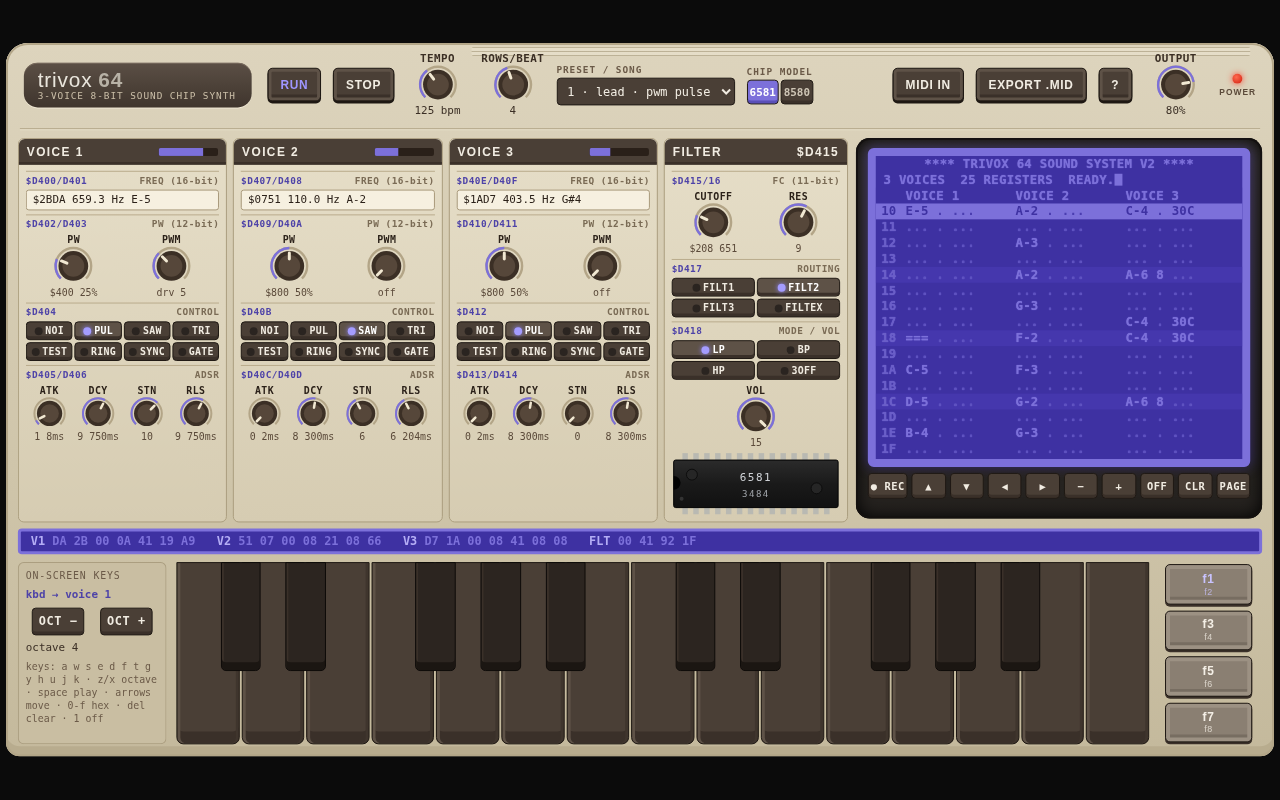
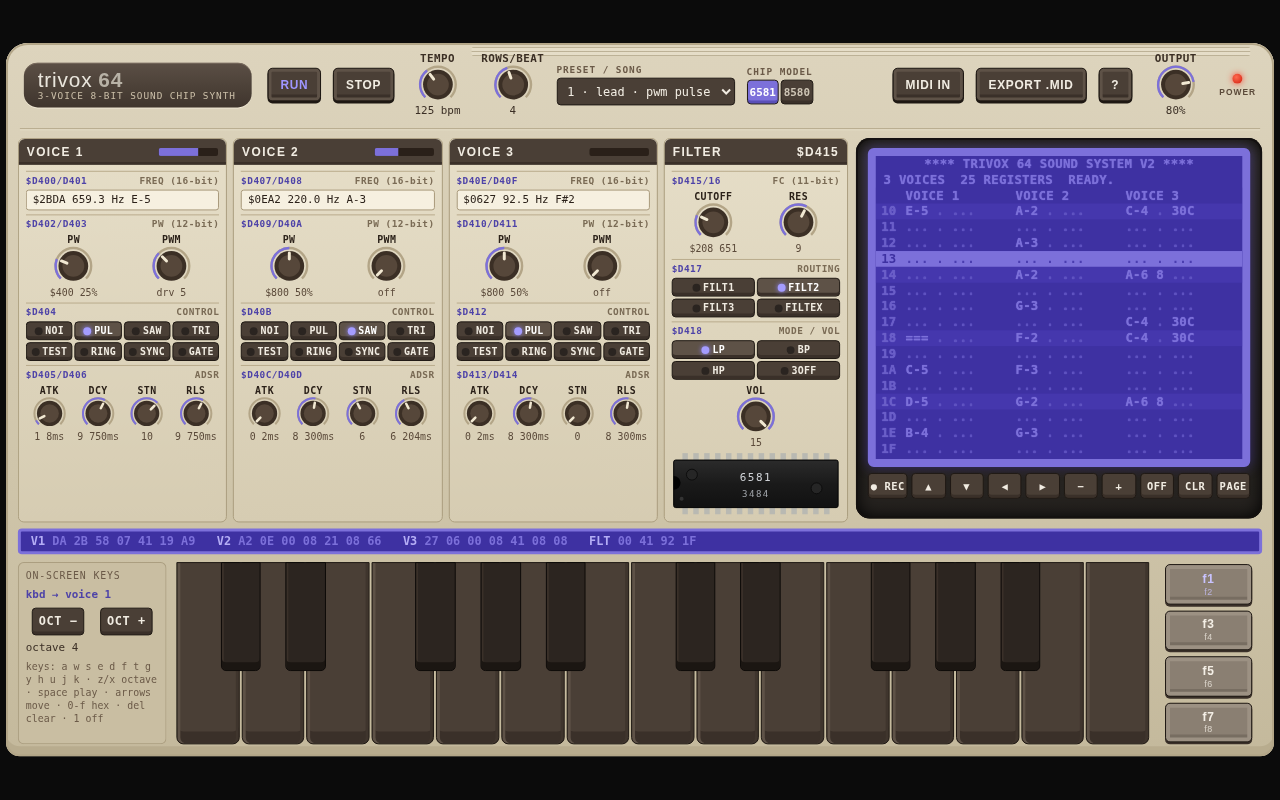
note protocol: my 8 synths accept notes from orbs via postMessage

Changed region(s): [[0.6875, 0.3125, 0.9688, 0.3438], [0.6875, 0.25, 0.9688, 0.2812], [0.4062, 0.2188, 0.4375, 0.25]]

diff --git a/fair-cmi/index.html b/fair-cmi/index.html
@@ -474,5 +474,42 @@ PRE.forEach(([r,l])=>mkReg(r,l)); regs[1].p.attack=30; regs[1].p.damp=60; regs[2
 try{ const s=JSON.parse(localStorage.getItem(LS)); if(s&&s.seq){ Object.assign(SEQ,s.seq); clk.bpm=SEQ.tempo; } if(s&&s.regs&&s.regs.length===8) s.regs.forEach((o,i)=>{ const R=regs[i]; if(o.src==='lib'){ Object.assign(R,{name:SMP.LIB[o.lib][0],key:SMP.LIB[o.lib][1],lib:o.lib,src:'lib',rate:o.rate,bits:o.bits}); } else if(o.raw){ Object.assign(R,{name:o.name,src:'draw',raw:new Float32Array(o.raw),rate:o.rate,bits:o.bits,ls0:o.ls0,le0:o.le0}); }
   Object.assign(R.p,o.p); R.kbd=o.kbd; R.trans=o.trans; R.loopSet=true; renderReg(i); }); }catch(e){ console.warn(e); }
 VS.fit(panel,W,H); go('R');
+/* vsynths note protocol v1 · receiver (shared, paste once per synth, then call VSN.use({...}) with the synth's own note functions)
+   messages in : {type:'vsynths:hello'}                                   -> answers {type:'vsynths:ready', proto:1, slug, notes:true}
+                 {type:'vsynths:note', note, vel, on, dur, delay, at, src}  note: midi 0-127 or [notes]; vel 0-1 (or 1-127); on: true|false (default true)
+                                                                            dur: s (on + auto off); delay: s from now, or at: epoch ms (performance.timeOrigin+performance.now())
+                 {type:'vsynths:notes', list:[...note msgs]}               batch
+                 {type:'vsynths:panic'} / {type:'vsynths:stop'}            release every note this protocol holds (the synth's own stop handler still runs for :stop)
+   messages out: {type:'vsynths:ready', ...} once VSN.use() runs and on every hello; {type:'vsynths:ack', on, off} on {type:'vsynths:stats'} */
+(function (W) {
+  if (W.VSN) return;
+  const A = { on: null, off: null, panic: null, slug: '' }, live = new Map(), timers = new Set(), st = { on: 0, off: 0, msgs: 0 };
+  const slugOf = () => A.slug || (location.pathname.split('/').filter(s => s && !/\.html?$/.test(s)).pop() || document.title || 'synth').toLowerCase();
+  const nowMs = () => (performance.timeOrigin || 0) + performance.now();
+  const ready = to => { const m = { type: 'vsynths:ready', proto: 1, slug: slugOf(), notes: !!A.on }; try { (to || (W.parent !== W ? W.parent : null)) && (to || W.parent).postMessage(m, '*'); } catch (e) {} };
+  const later = (ms, f) => { if (ms <= 2) return f(); const id = setTimeout(() => { timers.delete(id); f(); }, ms); timers.add(id); };
+  const v01 = v => { v = +v; if (!isFinite(v)) return 0.8; if (v > 1) v /= 127; return Math.max(0.01, Math.min(1, v)); };
+  function on(n, v) { const c = live.get(n) || 0; try { if (c) A.off(n); A.on(n, v); } catch (e) {} live.set(n, c + 1); st.on++; }
+  function off(n) { const c = live.get(n) || 0; if (!c) return; if (c > 1) { live.set(n, c - 1); return; } live.delete(n); try { A.off(n); } catch (e) {} st.off++; }
+  function releaseAll() { timers.forEach(clearTimeout); timers.clear(); for (const n of [...live.keys()]) { live.set(n, 1); off(n); } try { A.panic && A.panic(); } catch (e) {} }
+  function note(d) {
+    if (!A.on) return; const ns = Array.isArray(d.note) ? d.note : [d.note], v = v01(d.vel == null ? 0.8 : d.vel);
+    const ms = d.at != null ? d.at - nowMs() : (+d.delay || 0) * 1000; if (ms < -250) return; // stale (tab was asleep): drop instead of a burst
+    const isOn = d.on !== false, dur = +d.dur > 0 ? Math.min(+d.dur, 30) : 0;
+    for (const n0 of ns) { const n = Math.round(+n0); if (!(n >= 0 && n <= 127)) continue;
+      if (!isOn) { later(ms, () => off(n)); continue; }
+      later(ms, () => on(n, v)); if (dur) later(ms + dur * 1000, () => off(n)); }
+  }
+  W.addEventListener('message', e => { const d = e.data; if (!d || typeof d !== 'object' || typeof d.type !== 'string' || d.type.slice(0, 8) !== 'vsynths:') return;
+    st.msgs++;
+    if (d.type === 'vsynths:note') note(d);
+    else if (d.type === 'vsynths:notes' && Array.isArray(d.list)) d.list.forEach(note);
+    else if (d.type === 'vsynths:panic' || d.type === 'vsynths:stop') releaseAll();
+    else if (d.type === 'vsynths:hello') ready(e.source);
+    else if (d.type === 'vsynths:stats') { try { e.source.postMessage({ type: 'vsynths:ack', slug: slugOf(), on: st.on, off: st.off, held: live.size }, '*'); } catch (x) {} } });
+  W.VSN = { use(o) { Object.assign(A, o); ready(); return W.VSN; }, stats: () => Object.assign({ held: live.size }, st), releaseAll, proto: 1 };
+})(typeof window !== 'undefined' ? window : this);
+
+VSN.use({slug:'fair-cmi',on:(n,v)=>noteOn(n,Math.round(v*127)),off:n=>noteOff(n)}); /* vsynths note protocol */
 window.CMI={noteOn,noteOff,go,regs,SEQ,clk,seqMidi,loadLib,computeDraw,computeHarm,get cur(){return cur},set cur(v){cur=v;},drawBuf,harm,get page(){return page},hits,cv,adj,PARS};
 </script></body></html>

diff --git a/wavemass/index.html b/wavemass/index.html
@@ -722,5 +722,42 @@ function fit(){ const vw=window.visualViewport?visualViewport.width:innerWidth, 
 addEventListener('resize',fit); addEventListener('orientationchange',()=>setTimeout(fit,250)); if(window.visualViewport) visualViewport.addEventListener('resize',fit);
 (function mtr(){ if(VS.analyser){ const m=VS.measure(); meter.firstChild.style.height=Math.min(100,Math.max(0,(20*Math.log10(m.peak||1e-6)+48)/48*100))+'%'; } setTimeout(()=>requestAnimationFrame(mtr),60); })();
 fit(); fxFromFlags(); pName.textContent=P.name.toUpperCase(); refreshAll();
+/* vsynths note protocol v1 · receiver (shared, paste once per synth, then call VSN.use({...}) with the synth's own note functions)
+   messages in : {type:'vsynths:hello'}                                   -> answers {type:'vsynths:ready', proto:1, slug, notes:true}
+                 {type:'vsynths:note', note, vel, on, dur, delay, at, src}  note: midi 0-127 or [notes]; vel 0-1 (or 1-127); on: true|false (default true)
+                                                                            dur: s (on + auto off); delay: s from now, or at: epoch ms (performance.timeOrigin+performance.now())
+                 {type:'vsynths:notes', list:[...note msgs]}               batch
+                 {type:'vsynths:panic'} / {type:'vsynths:stop'}            release every note this protocol holds (the synth's own stop handler still runs for :stop)
+   messages out: {type:'vsynths:ready', ...} once VSN.use() runs and on every hello; {type:'vsynths:ack', on, off} on {type:'vsynths:stats'} */
+(function (W) {
+  if (W.VSN) return;
+  const A = { on: null, off: null, panic: null, slug: '' }, live = new Map(), timers = new Set(), st = { on: 0, off: 0, msgs: 0 };
+  const slugOf = () => A.slug || (location.pathname.split('/').filter(s => s && !/\.html?$/.test(s)).pop() || document.title || 'synth').toLowerCase();
+  const nowMs = () => (performance.timeOrigin || 0) + performance.now();
+  const ready = to => { const m = { type: 'vsynths:ready', proto: 1, slug: slugOf(), notes: !!A.on }; try { (to || (W.parent !== W ? W.parent : null)) && (to || W.parent).postMessage(m, '*'); } catch (e) {} };
+  const later = (ms, f) => { if (ms <= 2) return f(); const id = setTimeout(() => { timers.delete(id); f(); }, ms); timers.add(id); };
+  const v01 = v => { v = +v; if (!isFinite(v)) return 0.8; if (v > 1) v /= 127; return Math.max(0.01, Math.min(1, v)); };
+  function on(n, v) { const c = live.get(n) || 0; try { if (c) A.off(n); A.on(n, v); } catch (e) {} live.set(n, c + 1); st.on++; }
+  function off(n) { const c = live.get(n) || 0; if (!c) return; if (c > 1) { live.set(n, c - 1); return; } live.delete(n); try { A.off(n); } catch (e) {} st.off++; }
+  function releaseAll() { timers.forEach(clearTimeout); timers.clear(); for (const n of [...live.keys()]) { live.set(n, 1); off(n); } try { A.panic && A.panic(); } catch (e) {} }
+  function note(d) {
+    if (!A.on) return; const ns = Array.isArray(d.note) ? d.note : [d.note], v = v01(d.vel == null ? 0.8 : d.vel);
+    const ms = d.at != null ? d.at - nowMs() : (+d.delay || 0) * 1000; if (ms < -250) return; // stale (tab was asleep): drop instead of a burst
+    const isOn = d.on !== false, dur = +d.dur > 0 ? Math.min(+d.dur, 30) : 0;
+    for (const n0 of ns) { const n = Math.round(+n0); if (!(n >= 0 && n <= 127)) continue;
+      if (!isOn) { later(ms, () => off(n)); continue; }
+      later(ms, () => on(n, v)); if (dur) later(ms + dur * 1000, () => off(n)); }
+  }
+  W.addEventListener('message', e => { const d = e.data; if (!d || typeof d !== 'object' || typeof d.type !== 'string' || d.type.slice(0, 8) !== 'vsynths:') return;
+    st.msgs++;
+    if (d.type === 'vsynths:note') note(d);
+    else if (d.type === 'vsynths:notes' && Array.isArray(d.list)) d.list.forEach(note);
+    else if (d.type === 'vsynths:panic' || d.type === 'vsynths:stop') releaseAll();
+    else if (d.type === 'vsynths:hello') ready(e.source);
+    else if (d.type === 'vsynths:stats') { try { e.source.postMessage({ type: 'vsynths:ack', slug: slugOf(), on: st.on, off: st.off, held: live.size }, '*'); } catch (x) {} } });
+  W.VSN = { use(o) { Object.assign(A, o); ready(); return W.VSN; }, stats: () => Object.assign({ held: live.size }, st), releaseAll, proto: 1 };
+})(typeof window !== 'undefined' ? window : this);
+
+VSN.use({slug:'wavemass',on:(n,v)=>down(n,Math.round(v*127)),off:n=>up(n)}); /* vsynths note protocol */
 window.WM={get P(){return P},fit,set view(v){phoneView=v;fit();},noteOn,noteOff,loadPreset,SA,send:()=>{ if(eng) eng.send({t:'patch',p:P}); },arm,PRESETS,refreshAll};
 </script></body></html>

diff --git a/obx-a/index.html b/obx-a/index.html
@@ -609,6 +609,43 @@ async function renderOffline(sec=3,events=null,patchOverride=null){ const sr=441
   const buf=await oc.startRendering(); let peak=0,nan=0,ss=0; for(let c=0;c<2;c++){ const d=buf.getChannelData(c); for(let i=0;i<d.length;i++){ const x=d[i]; if(!isFinite(x)){ nan++; continue; } const a=Math.abs(x); if(a>peak) peak=a; ss+=x*x; } }
   return {peak,nan,rms:Math.sqrt(ss/(buf.length*2)),kind:e.kind}; }
 window.OBXA={S,FACTORY,Engine,progBtn,holdSwitch,chordSwitch,noteDown,noteUp,play,stop,stopAll,buildMidi,loadProg,setMode,renderOffline,get eng(){ return eng; },get ctx(){ return ctx; },get playing(){ return playing; }};
+
+/* vsynths note protocol v1 · receiver (shared, paste once per synth, then call VSN.use({...}) with the synth's own note functions)
+   messages in : {type:'vsynths:hello'}                                   -> answers {type:'vsynths:ready', proto:1, slug, notes:true}
+                 {type:'vsynths:note', note, vel, on, dur, delay, at, src}  note: midi 0-127 or [notes]; vel 0-1 (or 1-127); on: true|false (default true)
+                                                                            dur: s (on + auto off); delay: s from now, or at: epoch ms (performance.timeOrigin+performance.now())
+                 {type:'vsynths:notes', list:[...note msgs]}               batch
+                 {type:'vsynths:panic'} / {type:'vsynths:stop'}            release every note this protocol holds (the synth's own stop handler still runs for :stop)
+   messages out: {type:'vsynths:ready', ...} once VSN.use() runs and on every hello; {type:'vsynths:ack', on, off} on {type:'vsynths:stats'} */
+(function (W) {
+  if (W.VSN) return;
+  const A = { on: null, off: null, panic: null, slug: '' }, live = new Map(), timers = new Set(), st = { on: 0, off: 0, msgs: 0 };
+  const slugOf = () => A.slug || (location.pathname.split('/').filter(s => s && !/\.html?$/.test(s)).pop() || document.title || 'synth').toLowerCase();
+  const nowMs = () => (performance.timeOrigin || 0) + performance.now();
+  const ready = to => { const m = { type: 'vsynths:ready', proto: 1, slug: slugOf(), notes: !!A.on }; try { (to || (W.parent !== W ? W.parent : null)) && (to || W.parent).postMessage(m, '*'); } catch (e) {} };
+  const later = (ms, f) => { if (ms <= 2) return f(); const id = setTimeout(() => { timers.delete(id); f(); }, ms); timers.add(id); };
+  const v01 = v => { v = +v; if (!isFinite(v)) return 0.8; if (v > 1) v /= 127; return Math.max(0.01, Math.min(1, v)); };
+  function on(n, v) { const c = live.get(n) || 0; try { if (c) A.off(n); A.on(n, v); } catch (e) {} live.set(n, c + 1); st.on++; }
+  function off(n) { const c = live.get(n) || 0; if (!c) return; if (c > 1) { live.set(n, c - 1); return; } live.delete(n); try { A.off(n); } catch (e) {} st.off++; }
+  function releaseAll() { timers.forEach(clearTimeout); timers.clear(); for (const n of [...live.keys()]) { live.set(n, 1); off(n); } try { A.panic && A.panic(); } catch (e) {} }
+  function note(d) {
+    if (!A.on) return; const ns = Array.isArray(d.note) ? d.note : [d.note], v = v01(d.vel == null ? 0.8 : d.vel);
+    const ms = d.at != null ? d.at - nowMs() : (+d.delay || 0) * 1000; if (ms < -250) return; // stale (tab was asleep): drop instead of a burst
+    const isOn = d.on !== false, dur = +d.dur > 0 ? Math.min(+d.dur, 30) : 0;
+    for (const n0 of ns) { const n = Math.round(+n0); if (!(n >= 0 && n <= 127)) continue;
+      if (!isOn) { later(ms, () => off(n)); continue; }
+      later(ms, () => on(n, v)); if (dur) later(ms + dur * 1000, () => off(n)); }
+  }
+  W.addEventListener('message', e => { const d = e.data; if (!d || typeof d !== 'object' || typeof d.type !== 'string' || d.type.slice(0, 8) !== 'vsynths:') return;
+    st.msgs++;
+    if (d.type === 'vsynths:note') note(d);
+    else if (d.type === 'vsynths:notes' && Array.isArray(d.list)) d.list.forEach(note);
+    else if (d.type === 'vsynths:panic' || d.type === 'vsynths:stop') releaseAll();
+    else if (d.type === 'vsynths:hello') ready(e.source);
+    else if (d.type === 'vsynths:stats') { try { e.source.postMessage({ type: 'vsynths:ack', slug: slugOf(), on: st.on, off: st.off, held: live.size }, '*'); } catch (x) {} } });
+  W.VSN = { use(o) { Object.assign(A, o); ready(); return W.VSN; }, stats: () => Object.assign({ held: live.size }, st), releaseAll, proto: 1 };
+})(typeof window !== 'undefined' ? window : this);
+VSN.use({slug:'obx-a',on:(n,v)=>noteDown(n,v,'x'),off:n=>noteUp(n)}); /* vsynths note protocol: notes from a host page (orbs) */
 </script>
 </body>
 </html>

diff --git a/chip-sid/index.html b/chip-sid/index.html
@@ -566,6 +566,43 @@ buildKeyboard($('#kbw'),984,184,2);
   WID.push({render:()=>fks.forEach((k,i)=>k.classList.toggle('on',S.preset===i||(i===3&&S.preset===4)))}); }
 KB.onOn=(m,src)=>{ ensureAudio(); const c=CUR.c; noteOn(c,m,{},0); KB.lastCh=c; if(REC&&FIELDS[CUR.f]==='n') enterNote(m); };
 KB.onOff=(m,src)=>{ if(KB.held.size===0) noteOff(KB.lastCh??CUR.c,0); else { const ns=[...KB.held.values()]; noteOn(KB.lastCh??CUR.c,ns[ns.length-1],{},0); } };
+/* vsynths note protocol v1 · receiver (shared, paste once per synth, then call VSN.use({...}) with the synth's own note functions)
+   messages in : {type:'vsynths:hello'}                                   -> answers {type:'vsynths:ready', proto:1, slug, notes:true}
+                 {type:'vsynths:note', note, vel, on, dur, delay, at, src}  note: midi 0-127 or [notes]; vel 0-1 (or 1-127); on: true|false (default true)
+                                                                            dur: s (on + auto off); delay: s from now, or at: epoch ms (performance.timeOrigin+performance.now())
+                 {type:'vsynths:notes', list:[...note msgs]}               batch
+                 {type:'vsynths:panic'} / {type:'vsynths:stop'}            release every note this protocol holds (the synth's own stop handler still runs for :stop)
+   messages out: {type:'vsynths:ready', ...} once VSN.use() runs and on every hello; {type:'vsynths:ack', on, off} on {type:'vsynths:stats'} */
+(function (W) {
+  if (W.VSN) return;
+  const A = { on: null, off: null, panic: null, slug: '' }, live = new Map(), timers = new Set(), st = { on: 0, off: 0, msgs: 0 };
+  const slugOf = () => A.slug || (location.pathname.split('/').filter(s => s && !/\.html?$/.test(s)).pop() || document.title || 'synth').toLowerCase();
+  const nowMs = () => (performance.timeOrigin || 0) + performance.now();
+  const ready = to => { const m = { type: 'vsynths:ready', proto: 1, slug: slugOf(), notes: !!A.on }; try { (to || (W.parent !== W ? W.parent : null)) && (to || W.parent).postMessage(m, '*'); } catch (e) {} };
+  const later = (ms, f) => { if (ms <= 2) return f(); const id = setTimeout(() => { timers.delete(id); f(); }, ms); timers.add(id); };
+  const v01 = v => { v = +v; if (!isFinite(v)) return 0.8; if (v > 1) v /= 127; return Math.max(0.01, Math.min(1, v)); };
+  function on(n, v) { const c = live.get(n) || 0; try { if (c) A.off(n); A.on(n, v); } catch (e) {} live.set(n, c + 1); st.on++; }
+  function off(n) { const c = live.get(n) || 0; if (!c) return; if (c > 1) { live.set(n, c - 1); return; } live.delete(n); try { A.off(n); } catch (e) {} st.off++; }
+  function releaseAll() { timers.forEach(clearTimeout); timers.clear(); for (const n of [...live.keys()]) { live.set(n, 1); off(n); } try { A.panic && A.panic(); } catch (e) {} }
+  function note(d) {
+    if (!A.on) return; const ns = Array.isArray(d.note) ? d.note : [d.note], v = v01(d.vel == null ? 0.8 : d.vel);
+    const ms = d.at != null ? d.at - nowMs() : (+d.delay || 0) * 1000; if (ms < -250) return; // stale (tab was asleep): drop instead of a burst
+    const isOn = d.on !== false, dur = +d.dur > 0 ? Math.min(+d.dur, 30) : 0;
+    for (const n0 of ns) { const n = Math.round(+n0); if (!(n >= 0 && n <= 127)) continue;
+      if (!isOn) { later(ms, () => off(n)); continue; }
+      later(ms, () => on(n, v)); if (dur) later(ms + dur * 1000, () => off(n)); }
+  }
+  W.addEventListener('message', e => { const d = e.data; if (!d || typeof d !== 'object' || typeof d.type !== 'string' || d.type.slice(0, 8) !== 'vsynths:') return;
+    st.msgs++;
+    if (d.type === 'vsynths:note') note(d);
+    else if (d.type === 'vsynths:notes' && Array.isArray(d.list)) d.list.forEach(note);
+    else if (d.type === 'vsynths:panic' || d.type === 'vsynths:stop') releaseAll();
+    else if (d.type === 'vsynths:hello') ready(e.source);
+    else if (d.type === 'vsynths:stats') { try { e.source.postMessage({ type: 'vsynths:ack', slug: slugOf(), on: st.on, off: st.off, held: live.size }, '*'); } catch (x) {} } });
+  W.VSN = { use(o) { Object.assign(A, o); ready(); return W.VSN; }, stats: () => Object.assign({ held: live.size }, st), releaseAll, proto: 1 };
+})(typeof window !== 'undefined' ? window : this);
+
+VSN.use({slug:'chip-sid',on:(n,v)=>kbOn(n,'vsn'+n),off:n=>kbOff('vsn'+n),panic:()=>{}}); /* vsynths note protocol: host notes play like the on-screen keys (current channel) */
 
 /* ================= keys ================= */
 document.addEventListener('keydown',e=>{

diff --git a/fm7/index.html b/fm7/index.html
@@ -608,5 +608,42 @@ function buildMidi(){ const PPQ=96, st=24, notes=[]; let name='fm7_seq';
 function exportMidi(){ const b=buildMidi(); VS.download(b,(arp.mode!=='off'&&arp.mode!=='seq'&&held.size?'fm7_arp_':'fm7_seq_')+tempo+'bpm.mid'); msg('MIDI EXPORT','4 BARS SAVED'); }
 /* ---------------- boot ---------------- */
 VS.fit(panel,W,H); drawArp(); drawSteps(); show();
+/* vsynths note protocol v1 · receiver (shared, paste once per synth, then call VSN.use({...}) with the synth's own note functions)
+   messages in : {type:'vsynths:hello'}                                   -> answers {type:'vsynths:ready', proto:1, slug, notes:true}
+                 {type:'vsynths:note', note, vel, on, dur, delay, at, src}  note: midi 0-127 or [notes]; vel 0-1 (or 1-127); on: true|false (default true)
+                                                                            dur: s (on + auto off); delay: s from now, or at: epoch ms (performance.timeOrigin+performance.now())
+                 {type:'vsynths:notes', list:[...note msgs]}               batch
+                 {type:'vsynths:panic'} / {type:'vsynths:stop'}            release every note this protocol holds (the synth's own stop handler still runs for :stop)
+   messages out: {type:'vsynths:ready', ...} once VSN.use() runs and on every hello; {type:'vsynths:ack', on, off} on {type:'vsynths:stats'} */
+(function (W) {
+  if (W.VSN) return;
+  const A = { on: null, off: null, panic: null, slug: '' }, live = new Map(), timers = new Set(), st = { on: 0, off: 0, msgs: 0 };
+  const slugOf = () => A.slug || (location.pathname.split('/').filter(s => s && !/\.html?$/.test(s)).pop() || document.title || 'synth').toLowerCase();
+  const nowMs = () => (performance.timeOrigin || 0) + performance.now();
+  const ready = to => { const m = { type: 'vsynths:ready', proto: 1, slug: slugOf(), notes: !!A.on }; try { (to || (W.parent !== W ? W.parent : null)) && (to || W.parent).postMessage(m, '*'); } catch (e) {} };
+  const later = (ms, f) => { if (ms <= 2) return f(); const id = setTimeout(() => { timers.delete(id); f(); }, ms); timers.add(id); };
+  const v01 = v => { v = +v; if (!isFinite(v)) return 0.8; if (v > 1) v /= 127; return Math.max(0.01, Math.min(1, v)); };
+  function on(n, v) { const c = live.get(n) || 0; try { if (c) A.off(n); A.on(n, v); } catch (e) {} live.set(n, c + 1); st.on++; }
+  function off(n) { const c = live.get(n) || 0; if (!c) return; if (c > 1) { live.set(n, c - 1); return; } live.delete(n); try { A.off(n); } catch (e) {} st.off++; }
+  function releaseAll() { timers.forEach(clearTimeout); timers.clear(); for (const n of [...live.keys()]) { live.set(n, 1); off(n); } try { A.panic && A.panic(); } catch (e) {} }
+  function note(d) {
+    if (!A.on) return; const ns = Array.isArray(d.note) ? d.note : [d.note], v = v01(d.vel == null ? 0.8 : d.vel);
+    const ms = d.at != null ? d.at - nowMs() : (+d.delay || 0) * 1000; if (ms < -250) return; // stale (tab was asleep): drop instead of a burst
+    const isOn = d.on !== false, dur = +d.dur > 0 ? Math.min(+d.dur, 30) : 0;
+    for (const n0 of ns) { const n = Math.round(+n0); if (!(n >= 0 && n <= 127)) continue;
+      if (!isOn) { later(ms, () => off(n)); continue; }
+      later(ms, () => on(n, v)); if (dur) later(ms + dur * 1000, () => off(n)); }
+  }
+  W.addEventListener('message', e => { const d = e.data; if (!d || typeof d !== 'object' || typeof d.type !== 'string' || d.type.slice(0, 8) !== 'vsynths:') return;
+    st.msgs++;
+    if (d.type === 'vsynths:note') note(d);
+    else if (d.type === 'vsynths:notes' && Array.isArray(d.list)) d.list.forEach(note);
+    else if (d.type === 'vsynths:panic' || d.type === 'vsynths:stop') releaseAll();
+    else if (d.type === 'vsynths:hello') ready(e.source);
+    else if (d.type === 'vsynths:stats') { try { e.source.postMessage({ type: 'vsynths:ack', slug: slugOf(), on: st.on, off: st.off, held: live.size }, '*'); } catch (x) {} } });
+  W.VSN = { use(o) { Object.assign(A, o); ready(); return W.VSN; }, stats: () => Object.assign({ held: live.size }, st), releaseAll, proto: 1 };
+})(typeof window !== 'undefined' ? window : this);
+
+VSN.use({slug:'fm7',on:(n,v)=>{lastNote=n;playDown(n,Math.round(v*127));},off:n=>playUp(n)}); /* vsynths note protocol: notes from a host page (orbs) */
 window.FM7={get P(){return P},noteOn,noteOff,press32,setMode,inc,clk,setArp,held,buildMidi,seq,get mode(){return mode},lcd:()=>lcd.textContent,ALG,PRESETS};
 </script></body></html>

diff --git a/pd-cz/index.html b/pd-cz/index.html
@@ -520,5 +520,42 @@ function show(){ clearTimeout(ft); let l1,l2;
   PL.forEach((l,i)=>l&&on(l,mode==='edit'&&prm===i)); [0,1,3,2].forEach((k,i)=>on(LSL[i],P.lineSel===k)); bLine.classList.add('lit');
   if(!power) lcd.textContent=''; }
 VS.fit(panel,W,H); show();
+/* vsynths note protocol v1 · receiver (shared, paste once per synth, then call VSN.use({...}) with the synth's own note functions)
+   messages in : {type:'vsynths:hello'}                                   -> answers {type:'vsynths:ready', proto:1, slug, notes:true}
+                 {type:'vsynths:note', note, vel, on, dur, delay, at, src}  note: midi 0-127 or [notes]; vel 0-1 (or 1-127); on: true|false (default true)
+                                                                            dur: s (on + auto off); delay: s from now, or at: epoch ms (performance.timeOrigin+performance.now())
+                 {type:'vsynths:notes', list:[...note msgs]}               batch
+                 {type:'vsynths:panic'} / {type:'vsynths:stop'}            release every note this protocol holds (the synth's own stop handler still runs for :stop)
+   messages out: {type:'vsynths:ready', ...} once VSN.use() runs and on every hello; {type:'vsynths:ack', on, off} on {type:'vsynths:stats'} */
+(function (W) {
+  if (W.VSN) return;
+  const A = { on: null, off: null, panic: null, slug: '' }, live = new Map(), timers = new Set(), st = { on: 0, off: 0, msgs: 0 };
+  const slugOf = () => A.slug || (location.pathname.split('/').filter(s => s && !/\.html?$/.test(s)).pop() || document.title || 'synth').toLowerCase();
+  const nowMs = () => (performance.timeOrigin || 0) + performance.now();
+  const ready = to => { const m = { type: 'vsynths:ready', proto: 1, slug: slugOf(), notes: !!A.on }; try { (to || (W.parent !== W ? W.parent : null)) && (to || W.parent).postMessage(m, '*'); } catch (e) {} };
+  const later = (ms, f) => { if (ms <= 2) return f(); const id = setTimeout(() => { timers.delete(id); f(); }, ms); timers.add(id); };
+  const v01 = v => { v = +v; if (!isFinite(v)) return 0.8; if (v > 1) v /= 127; return Math.max(0.01, Math.min(1, v)); };
+  function on(n, v) { const c = live.get(n) || 0; try { if (c) A.off(n); A.on(n, v); } catch (e) {} live.set(n, c + 1); st.on++; }
+  function off(n) { const c = live.get(n) || 0; if (!c) return; if (c > 1) { live.set(n, c - 1); return; } live.delete(n); try { A.off(n); } catch (e) {} st.off++; }
+  function releaseAll() { timers.forEach(clearTimeout); timers.clear(); for (const n of [...live.keys()]) { live.set(n, 1); off(n); } try { A.panic && A.panic(); } catch (e) {} }
+  function note(d) {
+    if (!A.on) return; const ns = Array.isArray(d.note) ? d.note : [d.note], v = v01(d.vel == null ? 0.8 : d.vel);
+    const ms = d.at != null ? d.at - nowMs() : (+d.delay || 0) * 1000; if (ms < -250) return; // stale (tab was asleep): drop instead of a burst
+    const isOn = d.on !== false, dur = +d.dur > 0 ? Math.min(+d.dur, 30) : 0;
+    for (const n0 of ns) { const n = Math.round(+n0); if (!(n >= 0 && n <= 127)) continue;
+      if (!isOn) { later(ms, () => off(n)); continue; }
+      later(ms, () => on(n, v)); if (dur) later(ms + dur * 1000, () => off(n)); }
+  }
+  W.addEventListener('message', e => { const d = e.data; if (!d || typeof d !== 'object' || typeof d.type !== 'string' || d.type.slice(0, 8) !== 'vsynths:') return;
+    st.msgs++;
+    if (d.type === 'vsynths:note') note(d);
+    else if (d.type === 'vsynths:notes' && Array.isArray(d.list)) d.list.forEach(note);
+    else if (d.type === 'vsynths:panic' || d.type === 'vsynths:stop') releaseAll();
+    else if (d.type === 'vsynths:hello') ready(e.source);
+    else if (d.type === 'vsynths:stats') { try { e.source.postMessage({ type: 'vsynths:ack', slug: slugOf(), on: st.on, off: st.off, held: live.size }, '*'); } catch (x) {} } });
+  W.VSN = { use(o) { Object.assign(A, o); ready(); return W.VSN; }, stats: () => Object.assign({ held: live.size }, st), releaseAll, proto: 1 };
+})(typeof window !== 'undefined' ? window : this);
+
+VSN.use({slug:'pd-cz',on:(n,v)=>down(n,Math.round(v*127)),off:n=>up(n)}); /* vsynths note protocol */
 window.PD={send:()=>{ if(eng) eng.send({t:'patch',p:P}); },get P(){return P},noteOn,noteOff,press16,perf,val,moveCur,envPoint,SA,get mode(){return mode},set mode(m){mode=m; if(m==='edit'&&prm<0) prm=6; show();},lcd:()=>lcd.textContent,PRESETS};
 </script></body></html>

diff --git a/chip-2a03/index.html b/chip-2a03/index.html
@@ -642,6 +642,43 @@ buildKeyboard($('#kbw'),946,188,2);
 const kbMap=m=>CUR.c===3?(15-(m%16))|(S.ch[3].mode<<4):CUR.c===4?(m%4):m;
 KB.onOn=(m,src)=>{ ensureAudio(); const c=CUR.c, n=kbMap(m); writeStatic(); noteOn(c,n,{},0); KB.lastCh=c; if(REC&&FIELDS[c][CUR.f]==='n') enterNote(n); };
 KB.onOff=(m,src)=>{ if(KB.held.size===0) noteOff(KB.lastCh??CUR.c,0); };
+/* vsynths note protocol v1 · receiver (shared, paste once per synth, then call VSN.use({...}) with the synth's own note functions)
+   messages in : {type:'vsynths:hello'}                                   -> answers {type:'vsynths:ready', proto:1, slug, notes:true}
+                 {type:'vsynths:note', note, vel, on, dur, delay, at, src}  note: midi 0-127 or [notes]; vel 0-1 (or 1-127); on: true|false (default true)
+                                                                            dur: s (on + auto off); delay: s from now, or at: epoch ms (performance.timeOrigin+performance.now())
+                 {type:'vsynths:notes', list:[...note msgs]}               batch
+                 {type:'vsynths:panic'} / {type:'vsynths:stop'}            release every note this protocol holds (the synth's own stop handler still runs for :stop)
+   messages out: {type:'vsynths:ready', ...} once VSN.use() runs and on every hello; {type:'vsynths:ack', on, off} on {type:'vsynths:stats'} */
+(function (W) {
+  if (W.VSN) return;
+  const A = { on: null, off: null, panic: null, slug: '' }, live = new Map(), timers = new Set(), st = { on: 0, off: 0, msgs: 0 };
+  const slugOf = () => A.slug || (location.pathname.split('/').filter(s => s && !/\.html?$/.test(s)).pop() || document.title || 'synth').toLowerCase();
+  const nowMs = () => (performance.timeOrigin || 0) + performance.now();
+  const ready = to => { const m = { type: 'vsynths:ready', proto: 1, slug: slugOf(), notes: !!A.on }; try { (to || (W.parent !== W ? W.parent : null)) && (to || W.parent).postMessage(m, '*'); } catch (e) {} };
+  const later = (ms, f) => { if (ms <= 2) return f(); const id = setTimeout(() => { timers.delete(id); f(); }, ms); timers.add(id); };
+  const v01 = v => { v = +v; if (!isFinite(v)) return 0.8; if (v > 1) v /= 127; return Math.max(0.01, Math.min(1, v)); };
+  function on(n, v) { const c = live.get(n) || 0; try { if (c) A.off(n); A.on(n, v); } catch (e) {} live.set(n, c + 1); st.on++; }
+  function off(n) { const c = live.get(n) || 0; if (!c) return; if (c > 1) { live.set(n, c - 1); return; } live.delete(n); try { A.off(n); } catch (e) {} st.off++; }
+  function releaseAll() { timers.forEach(clearTimeout); timers.clear(); for (const n of [...live.keys()]) { live.set(n, 1); off(n); } try { A.panic && A.panic(); } catch (e) {} }
+  function note(d) {
+    if (!A.on) return; const ns = Array.isArray(d.note) ? d.note : [d.note], v = v01(d.vel == null ? 0.8 : d.vel);
+    const ms = d.at != null ? d.at - nowMs() : (+d.delay || 0) * 1000; if (ms < -250) return; // stale (tab was asleep): drop instead of a burst
+    const isOn = d.on !== false, dur = +d.dur > 0 ? Math.min(+d.dur, 30) : 0;
+    for (const n0 of ns) { const n = Math.round(+n0); if (!(n >= 0 && n <= 127)) continue;
+      if (!isOn) { later(ms, () => off(n)); continue; }
+      later(ms, () => on(n, v)); if (dur) later(ms + dur * 1000, () => off(n)); }
+  }
+  W.addEventListener('message', e => { const d = e.data; if (!d || typeof d !== 'object' || typeof d.type !== 'string' || d.type.slice(0, 8) !== 'vsynths:') return;
+    st.msgs++;
+    if (d.type === 'vsynths:note') note(d);
+    else if (d.type === 'vsynths:notes' && Array.isArray(d.list)) d.list.forEach(note);
+    else if (d.type === 'vsynths:panic' || d.type === 'vsynths:stop') releaseAll();
+    else if (d.type === 'vsynths:hello') ready(e.source);
+    else if (d.type === 'vsynths:stats') { try { e.source.postMessage({ type: 'vsynths:ack', slug: slugOf(), on: st.on, off: st.off, held: live.size }, '*'); } catch (x) {} } });
+  W.VSN = { use(o) { Object.assign(A, o); ready(); return W.VSN; }, stats: () => Object.assign({ held: live.size }, st), releaseAll, proto: 1 };
+})(typeof window !== 'undefined' ? window : this);
+
+VSN.use({slug:'chip-2a03',on:(n,v)=>kbOn(n,'vsn'+n),off:n=>kbOff('vsn'+n),panic:()=>{}}); /* vsynths note protocol: host notes play like the on-screen keys (current channel) */
 
 /* ================= keys ================= */
 document.addEventListener('keydown',e=>{

diff --git a/supersaw-8k/index.html b/supersaw-8k/index.html
@@ -876,6 +876,43 @@ idle(); refresh();
 window.VS8K={G,PARTS,get FX(){return FX;},SPEC,setV,getV,noteDown,noteUp,loadPatch,buildMidi,exportMidi,arpToggleRun,stopAll,ensureAudio,numPress,valStep,motionBtn,
   get ready(){return ready;},get ctx(){return ctx;},meter:()=>({peak:meterPk,nan:meterNan}),resetMeter:()=>{meterPk=0;meterNan=0;},get worklet(){return !!(node&&node.port);},motion,PRESETS,
   get arpRunning(){return !!arpTimer;},get lcd(){return lcd.textContent;}};
+
+/* vsynths note protocol v1 · receiver (shared, paste once per synth, then call VSN.use({...}) with the synth's own note functions)
+   messages in : {type:'vsynths:hello'}                                   -> answers {type:'vsynths:ready', proto:1, slug, notes:true}
+                 {type:'vsynths:note', note, vel, on, dur, delay, at, src}  note: midi 0-127 or [notes]; vel 0-1 (or 1-127); on: true|false (default true)
+                                                                            dur: s (on + auto off); delay: s from now, or at: epoch ms (performance.timeOrigin+performance.now())
+                 {type:'vsynths:notes', list:[...note msgs]}               batch
+                 {type:'vsynths:panic'} / {type:'vsynths:stop'}            release every note this protocol holds (the synth's own stop handler still runs for :stop)
+   messages out: {type:'vsynths:ready', ...} once VSN.use() runs and on every hello; {type:'vsynths:ack', on, off} on {type:'vsynths:stats'} */
+(function (W) {
+  if (W.VSN) return;
+  const A = { on: null, off: null, panic: null, slug: '' }, live = new Map(), timers = new Set(), st = { on: 0, off: 0, msgs: 0 };
+  const slugOf = () => A.slug || (location.pathname.split('/').filter(s => s && !/\.html?$/.test(s)).pop() || document.title || 'synth').toLowerCase();
+  const nowMs = () => (performance.timeOrigin || 0) + performance.now();
+  const ready = to => { const m = { type: 'vsynths:ready', proto: 1, slug: slugOf(), notes: !!A.on }; try { (to || (W.parent !== W ? W.parent : null)) && (to || W.parent).postMessage(m, '*'); } catch (e) {} };
+  const later = (ms, f) => { if (ms <= 2) return f(); const id = setTimeout(() => { timers.delete(id); f(); }, ms); timers.add(id); };
+  const v01 = v => { v = +v; if (!isFinite(v)) return 0.8; if (v > 1) v /= 127; return Math.max(0.01, Math.min(1, v)); };
+  function on(n, v) { const c = live.get(n) || 0; try { if (c) A.off(n); A.on(n, v); } catch (e) {} live.set(n, c + 1); st.on++; }
+  function off(n) { const c = live.get(n) || 0; if (!c) return; if (c > 1) { live.set(n, c - 1); return; } live.delete(n); try { A.off(n); } catch (e) {} st.off++; }
+  function releaseAll() { timers.forEach(clearTimeout); timers.clear(); for (const n of [...live.keys()]) { live.set(n, 1); off(n); } try { A.panic && A.panic(); } catch (e) {} }
+  function note(d) {
+    if (!A.on) return; const ns = Array.isArray(d.note) ? d.note : [d.note], v = v01(d.vel == null ? 0.8 : d.vel);
+    const ms = d.at != null ? d.at - nowMs() : (+d.delay || 0) * 1000; if (ms < -250) return; // stale (tab was asleep): drop instead of a burst
+    const isOn = d.on !== false, dur = +d.dur > 0 ? Math.min(+d.dur, 30) : 0;
+    for (const n0 of ns) { const n = Math.round(+n0); if (!(n >= 0 && n <= 127)) continue;
+      if (!isOn) { later(ms, () => off(n)); continue; }
+      later(ms, () => on(n, v)); if (dur) later(ms + dur * 1000, () => off(n)); }
+  }
+  W.addEventListener('message', e => { const d = e.data; if (!d || typeof d !== 'object' || typeof d.type !== 'string' || d.type.slice(0, 8) !== 'vsynths:') return;
+    st.msgs++;
+    if (d.type === 'vsynths:note') note(d);
+    else if (d.type === 'vsynths:notes' && Array.isArray(d.list)) d.list.forEach(note);
+    else if (d.type === 'vsynths:panic' || d.type === 'vsynths:stop') releaseAll();
+    else if (d.type === 'vsynths:hello') ready(e.source);
+    else if (d.type === 'vsynths:stats') { try { e.source.postMessage({ type: 'vsynths:ack', slug: slugOf(), on: st.on, off: st.off, held: live.size }, '*'); } catch (x) {} } });
+  W.VSN = { use(o) { Object.assign(A, o); ready(); return W.VSN; }, stats: () => Object.assign({ held: live.size }, st), releaseAll, proto: 1 };
+})(typeof window !== 'undefined' ? window : this);
+VSN.use({slug:'supersaw-8k',on:(n,v)=>noteDown(n,v),off:n=>noteUp(n)}); /* vsynths note protocol: notes from a host page (orbs) */
 </script>
 
 </body>
